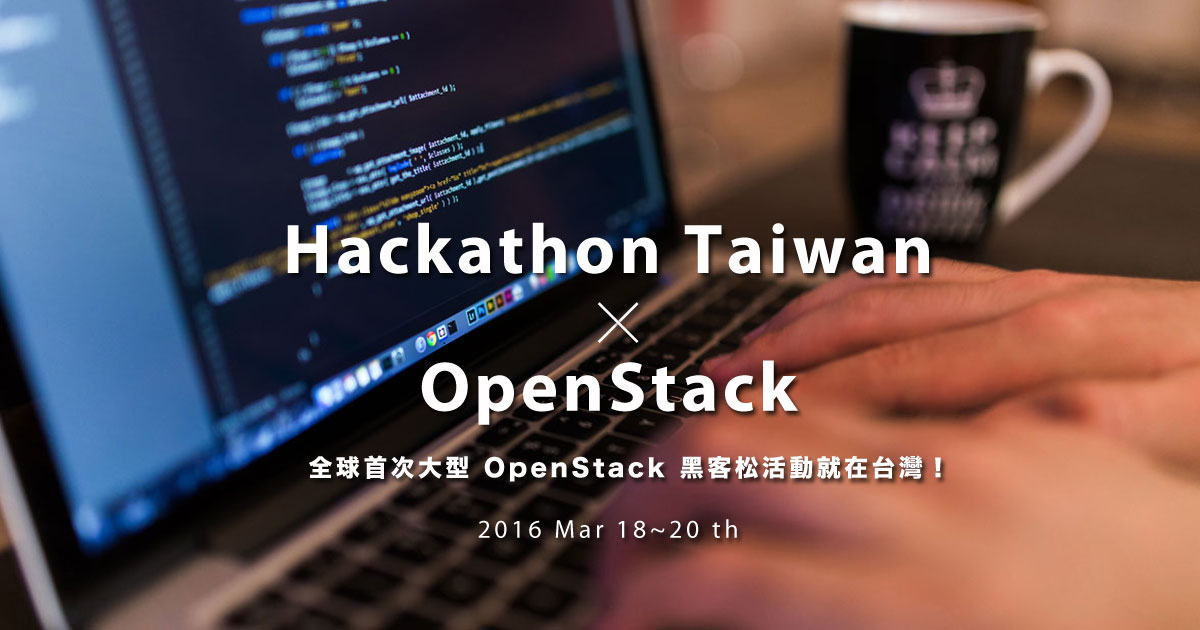
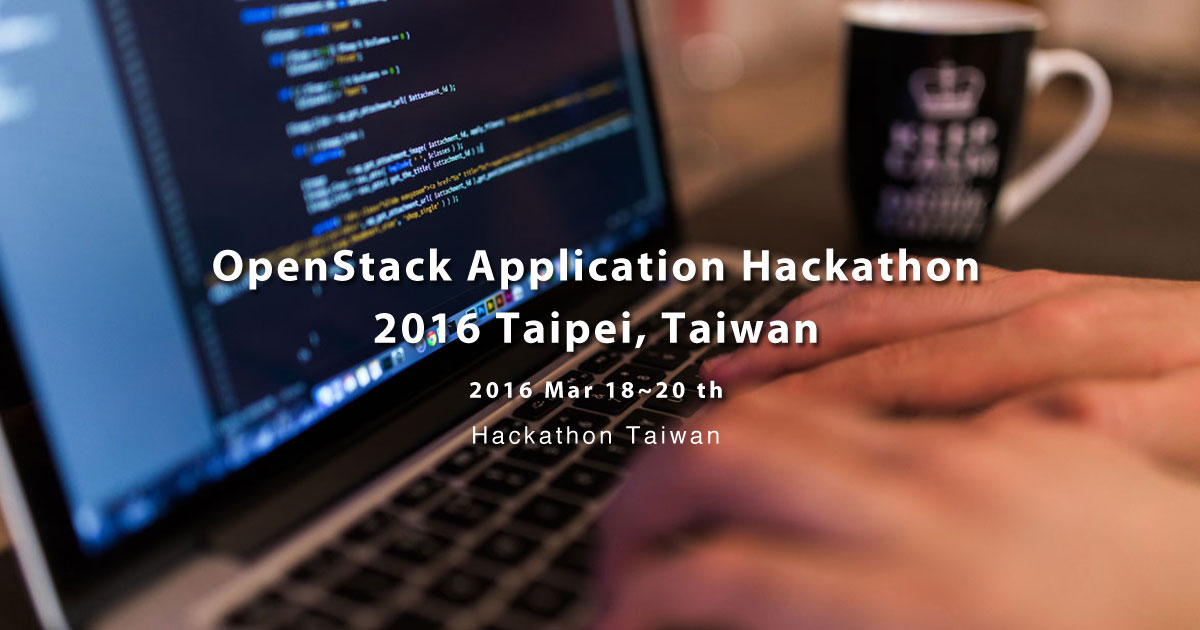
update top title

Changed region(s): [[0.1542, 0.3619, 0.8325, 0.7841], [0.4008, 0.8143, 0.6167, 0.8746]]

diff --git a/src/js/components/LandingPage.jsx b/src/js/components/LandingPage.jsx
@@ -42,7 +42,7 @@ var removeBottomPadding = {
 	return {
 		ogMeta: {
 			'og:title': '全球首次大型 OpenStack 黑客松活動就在台灣！',
-			'og:image': handle.flux.getState('Service').externalUrl + fbPic
+			'og:image': 'http://openstack.hackathon.tw' + fbPic
 		}
 	};
 })
@@ -66,15 +66,15 @@ class LandingPage extends React.Component {
 
 				<div className={'ui basic center aligned segment landing-page-header'}>
 					<h1 className={'ui inverted header main-title'}>
-						Open Stack <i className="material-icons">clear</i> <I18n sign='landing_page.main.title'>Hackathon Taiwan</I18n>
+						<I18n sign='landing_page.title'>OpenStack Application Hackathon<br />2016 Taipei, Taiwan</I18n>
 					</h1>
 					<h2 className={'ui inverted header'}>
-						<I18n sign='landing_page.title'>OpenStack Application Hackathon<br />2016 Taipei, Taiwan</I18n>
+						2016.03.18 ~ 03.20
 					</h2>
 					<br />
 					<a href="http://hackathon.kktix.cc/events/2016-mar-openstack-hackathon" className="ui inverted huge button"><I18n sign='landing_page.entry_button'>Register</I18n></a>
 					<h2 className={'ui inverted header'}>
-						2016.03.18 ~ 03.20
+						<I18n sign='landing_page.main.title'>Hackathon Taiwan</I18n>
 					</h2>
 				</div>
 

diff --git a/src/js/components/Organizer.jsx b/src/js/components/Organizer.jsx
@@ -79,7 +79,7 @@ class Organizer extends React.Component {
 										OpenStack Foundation Co-hosts and Co-organizer:
 									</h1>
 									<p style={descStyle}>
-										Hackathon Taiwan<br />CCAT, ITRI, III, DOIT, IDB, inwinSTACK, QCT, TWOSUG.
+										Hackathon Taiwan, inwinSTACK, IDB, CCAT, ITRI, III, DOIT, QCT, TWOSUG.
 									</p>
 								</div>
 							</div>
